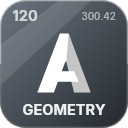
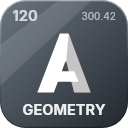
Engine packages 0.1.0-alpha.5
The packages' icons redrawn with a bevel that fades from light to dark down the sides; icons for the packages first
published in this version: Wayland, DBus, Content.Build and Engine.Templates. Unreleased becomes 0.1.0-alpha.5.

diff --git a/CHANGELOG.md b/CHANGELOG.md
@@ -5,6 +5,8 @@ All packages share one version.
 
 ## Unreleased
 
+## 0.1.0-alpha.5 - 2026-11-03
+
 ### Added
 
 - `IGraphicsDevice` gives all a renderer needs of the device, so none has to reach for `GraphicsDevice`:
